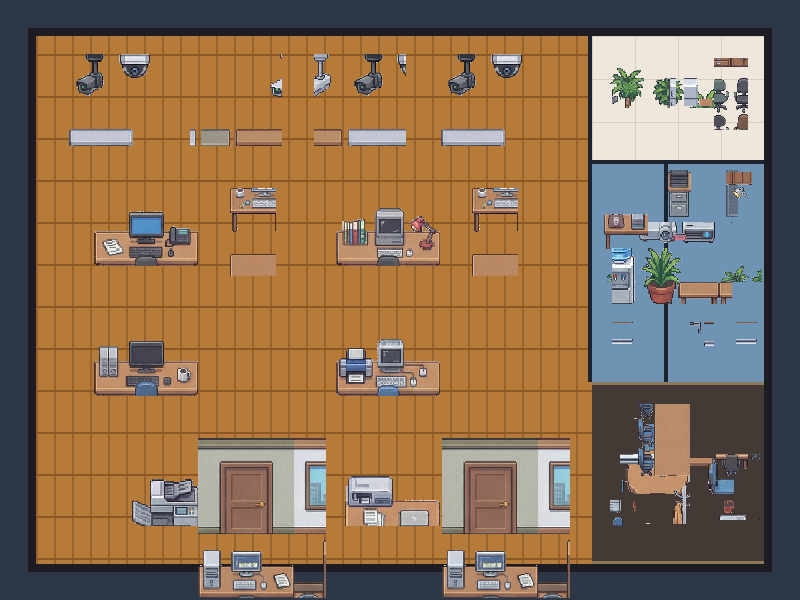
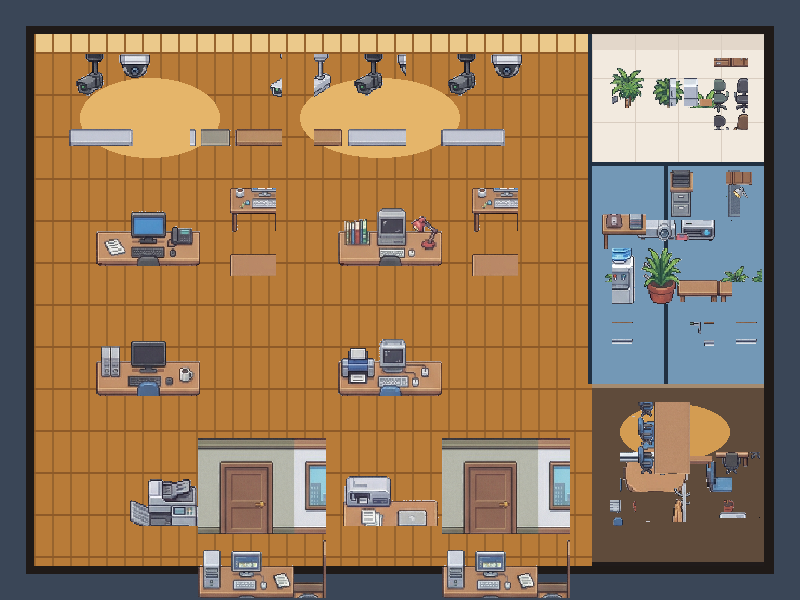
feat: cozy premium office polish

Changed region(s): [[0.0312, 0.03, 0.9688, 0.96], [0.8438, 0.45, 0.9375, 0.51], [0.9375, 0.12, 0.9688, 0.15]]

diff --git a/webview-ui/src/App.tsx b/webview-ui/src/App.tsx
@@ -2109,7 +2109,15 @@ const styles: Record<string, CSSProperties> = {
     lineHeight: 1.5
   },
   stage: {
-    overflowX: "auto"
+    overflowX: "auto",
+    padding: "18px",
+    borderRadius: "28px",
+    border: "1px solid rgba(255, 225, 179, 0.1)",
+    background:
+      "radial-gradient(circle at top left, rgba(255, 195, 120, 0.12), transparent 30%), linear-gradient(180deg, rgba(33, 25, 22, 0.96), rgba(24, 19, 18, 0.94))",
+    boxShadow: "inset 0 1px 0 rgba(255,255,255,0.04), 0 24px 60px rgba(0, 0, 0, 0.28)",
+    display: "flex",
+    justifyContent: "center"
   },
   fileInput: {
     display: "none"

diff --git a/webview-ui/src/office/OfficeCanvas.tsx b/webview-ui/src/office/OfficeCanvas.tsx
@@ -1868,9 +1868,10 @@ const styles = {
   canvas: {
     display: "block",
     maxWidth: "100%",
-    borderRadius: "18px",
-    border: "1px solid rgba(255, 231, 198, 0.14)",
+    borderRadius: "24px",
+    border: "1px solid rgba(255, 233, 202, 0.24)",
     background: "#171311",
-    boxShadow: "0 24px 60px rgba(0, 0, 0, 0.35)"
+    boxShadow:
+      "inset 0 1px 0 rgba(255,255,255,0.08), 0 0 0 10px rgba(37, 29, 24, 0.72), 0 28px 70px rgba(0, 0, 0, 0.42)"
   }
 };
